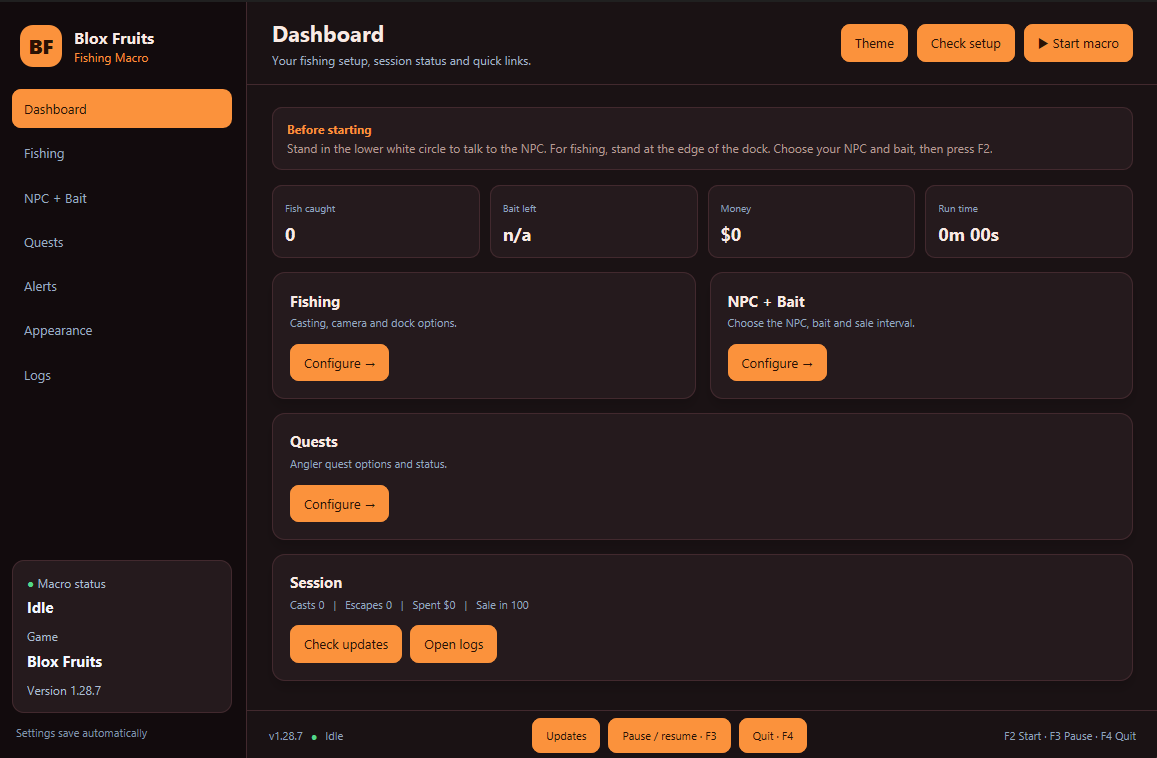
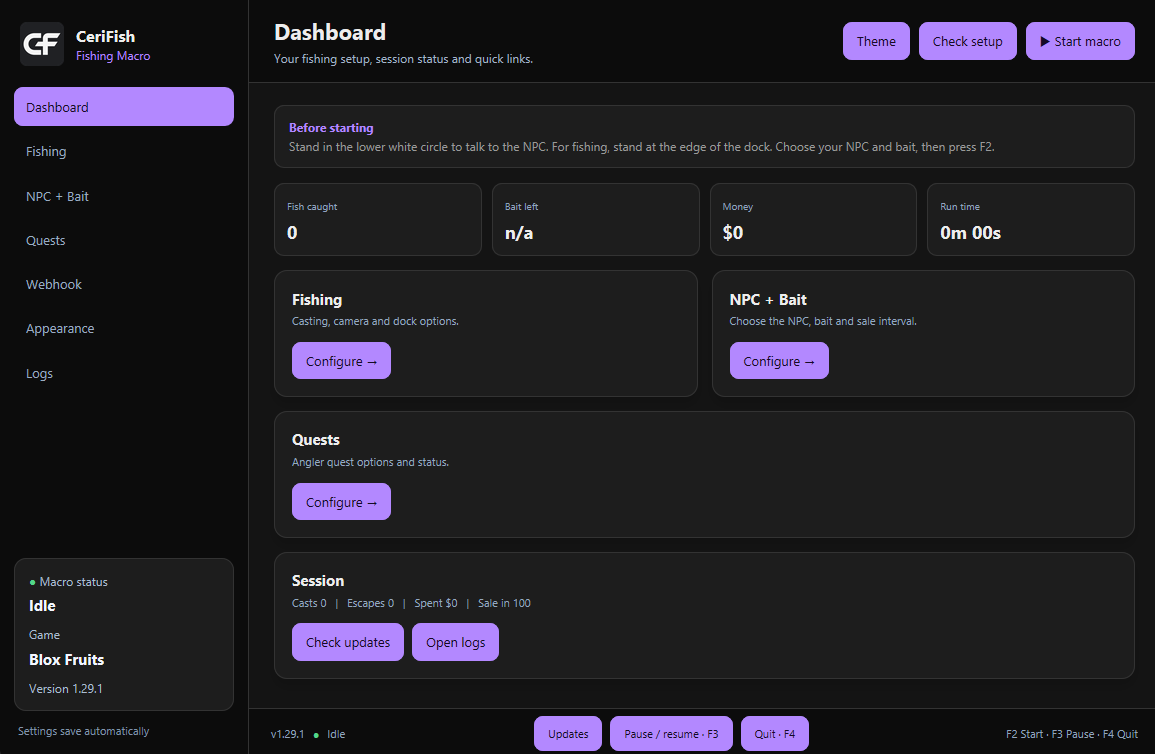
v1.29.2

diff --git a/BloxFishing.html b/BloxFishing.html
@@ -4,7 +4,7 @@
   <meta charset="utf-8">
   <meta http-equiv="X-UA-Compatible" content="IE=edge">
   <meta name="viewport" content="width=device-width, initial-scale=1">
-  <title>Blox Fruits Fishing Macro</title>
+  <title>CeriFish — Fishing Macro</title>
   <style>
     * { box-sizing: border-box; }
     html, body { width: 100%; height: 100%; margin: 0; overflow: hidden; }
@@ -14,7 +14,7 @@
     .app { display: flex; width: 100%; height: 100%; min-width: 980px; }
     .side { flex: 0 0 220px; display: flex; flex-direction: column; padding: 20px 14px; background: #06101d; border-right: 1px solid #203149; }
     .brand { display: flex; align-items: center; padding: 3px 8px 22px; }
-    .logo { display: flex; align-items: center; justify-content: center; width: 42px; height: 42px; margin-right: 12px; border-radius: 13px; background: #122a48; color: #4da2ff; font-size: 20px; font-weight: 800; }
+    .logo { display: block; width: 42px; height: 42px; flex: 0 0 42px; margin-right: 12px; border-radius: 13px; }
     .brand b { display: block; font-size: 16px; }
     .brand small { color: #68b5ff; font-size: 12px; }
     .nav { display: flex; flex-direction: column; }
@@ -159,17 +159,17 @@
 <body id="root">
   <div class="app">
     <aside class="side">
-      <div class="brand"><div class="logo">BF</div><div><b>Blox Fruits</b><small>Fishing Macro</small></div></div>
+      <div class="brand"><img class="logo" src="images/cerifish-mark.png" alt="CF" width="42" height="42"><div><b>CeriFish</b><small>Fishing Macro</small></div></div>
       <nav class="nav" onmouseover="navHover(event)" onmouseout="navLeave(event)">
         <button data-page="dash" onclick="page('dash')">Dashboard</button>
         <button data-page="fish" onclick="page('fish')">Fishing</button>
         <button data-page="shop" onclick="page('shop')">NPC + Bait</button>
         <button data-page="quest" onclick="page('quest')">Quests</button>
-        <button data-page="hook" onclick="page('hook')">Alerts</button>
+        <button data-page="hook" onclick="page('hook')">Webhook</button>
         <button data-page="look" onclick="page('look')">Appearance</button>
         <button data-page="logs" onclick="page('logs')">Logs</button>
       </nav>
-      <div class="sidebottom"><div class="status"><span class="dot">●</span> Macro status<b id="runstatus">Idle</b>Game<b>Blox Fruits</b>Version <span id="version">1.28.0</span></div><div class="ver">Settings save automatically</div></div>
+      <div class="sidebottom"><div class="status"><span class="dot">●</span> Macro status<b id="runstatus">Idle</b>Game<b>Blox Fruits</b>Version <span id="version">1.29.2</span></div><div class="ver">Settings save automatically</div></div>
     </aside>
     <main class="main">
       <header class="top"><div><h1 id="heading">Dashboard</h1><p id="subtitle">Your fishing setup, session status and quick links.</p></div><div class="topactions"><button class="btn" onclick="page('look')">Theme</button><button class="btn" onclick="cmd('check')">Check setup</button><button class="btn primary" id="runbtn" onclick="cmd('start')">Start macro · F2</button></div></header>
@@ -230,7 +230,7 @@
             <div class="card"><h2>Supported quest types</h2><p class="desc">Unrecognized quests are recorded in Logs.</p><ul><li>Catch a fish of a specified rarity</li><li>Catch three fish within the time limit</li><li>Make three perfect casts and reactions</li><li>Use the rod skill three times</li></ul></div>
           </div>
         </section>
-        <section class="view" id="page-hook" data-title="Alerts" data-subtitle="Discord notifications and session reports.">
+        <section class="view" id="page-hook" data-title="Webhook" data-subtitle="Discord notifications and session reports.">
           <div class="grid"><div class="card"><h2>Discord webhook</h2><p class="desc">Webhook URLs are saved locally in BloxFishing.ini.</p>
             <div class="setting"><span>Enable webhook</span><button id="toggle-hkOn" class="switch" onclick="cmd('toggle','hkOn')"><span></span></button></div>
             <label class="field"><span>Webhook URL</span><input id="hkUrl" type="password" onchange="cmd('set','hkUrl',this.value)"></label>
@@ -271,7 +271,7 @@
           <div class="actions" style="margin-bottom:12px"><button class="btn" onclick="cmd('check')">Check setup</button></div><pre id="log" class="log"></pre>
         </section>
       </div>
-      <footer class="footer"><div class="left">v<span id="version-footer">1.28.0</span><span class="dot">●</span><span id="footstatus">Idle</span></div><div class="actions"><button class="btn" onclick="cmd('update')">Updates</button><button class="btn" onclick="cmd('pause')">Pause / resume · F3</button><button class="btn" onclick="cmd('quit')">Quit · F4</button></div><span>F2 Start · F3 Pause · F4 Quit</span></footer>
+      <footer class="footer"><div class="left">v<span id="version-footer">1.29.2</span><span class="dot">●</span><span id="footstatus">Idle</span></div><div class="actions"><button class="btn" onclick="cmd('update')">Updates</button><button class="btn" onclick="cmd('pause')">Pause / resume · F3</button><button class="btn" onclick="cmd('quit')">Quit · F4</button></div><span>F2 Start · F3 Pause · F4 Quit</span></footer>
     </main>
   </div>
 </body>

diff --git a/README.md b/README.md
@@ -1,16 +1,16 @@
-# Blox Fruits Fishing Macro
+# CeriFish — Fishing Macro
 
 AutoHotkey v2 macro for automating fishing in **Blox Fruits**.
 
 The macro uses screen capture, color detection and Windows OCR to read the fishing bar, the bite indicator, the fish position, chests, the cast charge meter, NPC/shop menus and the quest panel. It controls the reel automatically and can buy bait, sell fish, do the Angler quests and report to Discord.
 
-Current version: **1.28.8** (see `CHANGELOG.md` for the full history).
+Current version: **1.29.2** (see `CHANGELOG.md` for the full history).
 
 ## Preview
 
 Dashboard preview using the Sunset theme:
 
-![Blox Fruits Fishing Macro dashboard in the Sunset theme](images/dashboard-preview.png)
+![CeriFish dashboard in the Sunset theme with the CF logo](images/dashboard-preview.png)
 
 ## Features
 
@@ -21,12 +21,14 @@ Dashboard preview using the Sunset theme:
 - Death detection (the Health text reads 0/x), re-anchoring after a missed bite, safety stops with a game screenshot
 - Discord webhook: live messages, hourly report with an image card, quest messages, error alerts
 - HTML/CSS control panel in `BloxFishing.html`, loaded inside the AHK window with AutoHotkey's ActiveX control; grouped settings, live status and themes
+- **Obsidian** is the default theme; your saved theme choice is kept.
+- CeriFish CF monogram appears in the app header and Windows taskbar/window icon.
 - GitHub version check at startup and an Updates button; asks before installing and keeps a `.bak` backup
 - Pause / resume without losing the session
 
 ## Updates
 
-The macro checks the repository's `main` branch once after startup. If a newer version is available, it asks before downloading and restarting. Select **Updates** in the footer to check manually. The updater downloads `BloxFishing.ahk` and `BloxFishing.html` together, backs up both files, and leaves your settings in `BloxFishing.ini`.
+The macro checks the repository's `main` branch once after startup. If a newer version is available, it asks before downloading and restarting. Select **Updates** in the footer to check manually. The updater downloads `BloxFishing.ahk`, `BloxFishing.html`, and the logo/icon assets together, backs up the interface and assets, and leaves your settings in `BloxFishing.ini`.
 
 ## Requirements
 
@@ -104,7 +106,7 @@ The same actions are available as buttons on the Dashboard. When stopped, the ma
 
 ## Dashboard
 
-The dashboard shows fish, bait, money, level and session time. Use its cards to open Fishing, NPC + Bait, Quests or Alerts. The left navigation keeps Logs and Appearance one click away. The footer keeps Start / Stop, Check setup, Updates, Pause, Quit and shortcut keys easy to find. The activity stream is on the Logs page.
+The dashboard shows fish, bait, money, level and session time. Use its cards to open Fishing, NPC + Bait, Quests or Webhook. The left navigation keeps Logs and Appearance one click away. The footer keeps Start / Stop, Check setup, Updates, Pause, Quit and shortcut keys easy to find. The activity stream is on the Logs page.
 
 ## Fishing
 

diff --git a/CHANGELOG.md b/CHANGELOG.md
@@ -1,7 +1,34 @@
-# Changelog: Blox Fruits Fishing Macro (AutoHotkey v2)
+# Changelog: CeriFish — Fishing Macro (AutoHotkey v2)
 
-Current delivered files: `BloxFishing.ahk` + `BloxFishing.html` (v1.28.8 below).
+Current delivered files: `BloxFishing.ahk`, `BloxFishing.html`, and CeriFish logo assets (v1.29.2 below).
 Nothing is pending from the earlier "not delivered" list except the open points at the bottom.
+
+---
+
+## v1.29.2: Add the CeriFish CF logo
+
+- Create a geometric CF monogram inspired by the supplied reference, with an editable SVG master and PNG app-header image.
+- Use a multi-size Windows icon for the app window and taskbar.
+- Include the logo files in GitHub updates so the interface and icon remain in sync.
+
+---
+
+## v1.29.1: Rename the app to CeriFish
+
+- Replace the Blox Fruits app branding with CeriFish and update the logo initials to CF.
+- Update the default Discord display name and migrate the old default name while preserving custom names.
+
+---
+
+## v1.29.0: Rename Alerts to Webhook
+
+- Rename the Webhook page and dashboard shortcut so their purpose is clear.
+
+---
+
+## v1.28.9: Make Obsidian the default theme
+
+- Set Obsidian as the default for new settings while keeping an existing saved theme choice.
 
 ---
 
